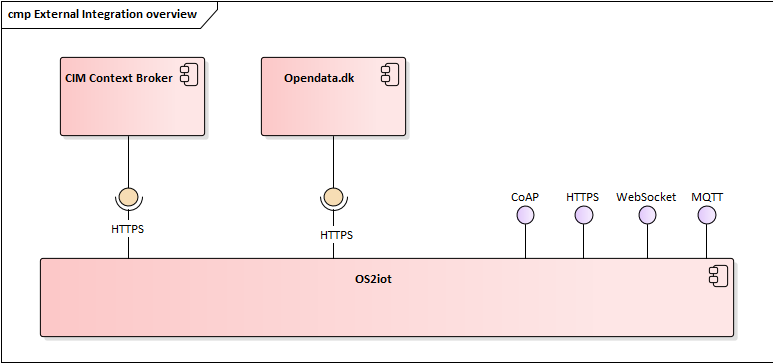
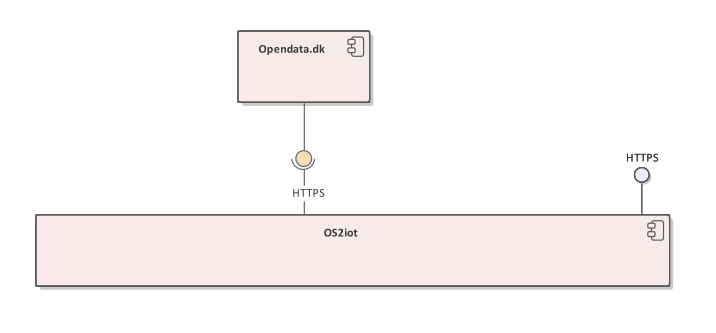
Update external interface design

diff --git a/source/external-interface-design/external-interface-design.rst b/source/external-interface-design/external-interface-design.rst
@@ -72,21 +72,11 @@ Figure 4 - Data target integrations
 
 OS2iot supports integrations to:
 
--  CIM Context Broker based on NGSI-LD
-
 -  Opendata.dk
 
 -  Any external system supporting one of the following
 
-   -  CoAP
-
    -  HTTPS
-
-   -  WebSocket
-
-   -  MQTT
-
-All use request-response except MQTT, which uses publish-subscribe.
 
 Authentication
 ^^^^^^^^^^^^^^^^^^^^^^^^^^^^^^^^^^
@@ -95,11 +85,7 @@ Authentication
 
 Figure 5 - External authentication systems
 
-OS2iot integrates to two external authentication systems:
-
--  KOMBIT Adgangsstyring
-
--  Active Directory
+OS2iot integrates to the external authentication system: KOMBIT Adgangsstyring
 
 These are described in detail in section 6 and 7, respectively.
 
@@ -287,7 +273,7 @@ Error handling
 
 ..
 
-   Errors received from chirpstack will be logged and displayed. Simple
+   Errors received from chirpstack will be logged and displayed. 
 
 Communicating with edge devices
 ~~~~~~~~~~~~~~~~~~~~~~~~~~~~~~~
@@ -589,227 +575,42 @@ exponential back-off. Or an API exposing all messages which have not
 been acknowledged by the receiver, for a short period of time (for
 instance 3 days like SigFox).
 
-NGSI-LD
-^^^^^^^^^^^^^^^^^^^^^^^^^^^^^^^^^^
-
-OS2iot can update attributes on entities in a CIM Context Broker according to the NGSI-LD specification.
-https://www.etsi.org/deliver/etsi_gs/CIM/001_099/009/01.01.01_60/gs_CIM009v010101p.pdf
-
-Prerequisites
-~~~~~~~~~~~~~
-
-OS2iot can only update existing attributes and existing entities in the Context Broker. This means that the entites must already be created in the Context Broker before OS2iot can send data to the Context Broker. The responsibility for this lies outside the scope of OS2iot.
-
-Integration pattern
-~~~~~~~~~~~~~~~~~~~~~~~~~~~~~~~~~~~~~~~
-The integration uses the request-response pattern. The following describes how and when data is sent to the CIM Context Broker from OS2iot:
-1.	OS2iot receives data from an IoT device
-2.	Once the data has been stored in OS2iot and the data has been transformed, the transformed data is sent to the Context Broker
-3.	Data is sent as a HTTP PATCH request
-
-Authorization
-~~~~~~~~~~~~~~~~~~~~~~~~~~
-
-The FIWARE reference implementations Orion-LD and Scorpio use no authentication or authorization.
-
-Data and format
-~~~~~~~~~~~~~~~~~~~~~~~~~~
-
-Data must use the JSON-LD format. FIWARE Smart Data Models define the available entities and attributes:
-https://github.com/smart-data-models
-
-Update entity attribute
-~~~~~~~~~~~~~~~~~~~~~~~~~~
-
-The NGSI-LD specification defines how attributes in the Context Broker are updated:
-https://github.com/FIWARE/context.Orion-LD/blob/develop/doc/manuals-ld/developer-documentation.md#patch-ngsi-ldv1entitiesentityidattrs
-A HTTP PATCH request is sent to "/ngsi-ld/v1/entities/{entityId}/attrs" with a JSON-LD object containing the attribute values. The data transformation in OS2iot is responsible for transforming the IoT device payload and OS2iot device metadata to valid JSON-LD.
-
 Opendata.dk
 ^^^^^^^^^^^^^^^^^^^^^^^^^^^^^^^^^^
 
-OS2iot can send data from IoT devices to opendata.dk by adding the
-received data to a opendata.dk resource after it has been received by
-OS2iot.
+Users of OS2iot can expose the data sent from their devices to opendata.dk by setting up a data-target to share with opendata.dk.
 
-Data is saved in opendata.dk in a Data Store in a Data Set created under
-an Organization.
+The IoTDevices whose data is exposed is the devices which are listed in the data-target. The data is transformed using their corresponding payload transformers.
+Each data-target which is shared creates one data-set is opendata.dk and in that dataset there is once resouce, namely an HTTP endpoint which exposes the data as an array of JSON objects.
+
+Opendata.dk autogenerates their catalogue of OS2iot data, by parsing the DCAT json file which is exposed at the :code:`/api/v1/open-data-dk-sharing/{organizationId}` endpoint. 
+The organizationId for your organization is shown in the frontend. 
+
+The data itself is exposed on the :code:`/api/v1/open-data-dk-sharing/{organizationId}/data/{shareId}` endpoint.
 
 .. _prerequisites-1:
-
-Prerequisites
-~~~~~~~~~~~~~
-
-The integration has the following prerequisites:
-
--  The necessary opendata.dk credentials has been added to the
-   organization in OS2iot. This includes the API key needed for
-   authenticating with opendata.dk.
-
--  The Organization and Data Set must be created in opendata.dk.
-
--  A payload transformation exists in OS2iot for transforming the device
-   payload to valid JSON.
-
-When creating or modifying an IoT device in OS2iot, it is possible to
-choose to also send device data to opendata.dk. When doing this, the
-user must also chose which data transformation to use and provide the
-name of the data store.
-
-Integration pattern
-~~~~~~~~~~~~~~~~~~~
-
-The following describes how and when data is sent to opendata.dk from
-OS2iot
-
-1. OS2iot receives data from an IoT device
-
-2. Once the data has been stored in OS2iot and the payload has been
-   transformed, the data (device metadata plus transformed payload) is
-   sent to opendata.dk
-
-3. Data is sent as a HTTP PUSH request to an opendata.dk API.
 
 Authorization
 ~~~~~~~~~~~~~
 
-Each HTTP request to the opendata.dk must contain a header containing
-the api key, i.e.:
-
-Authorization: [GUID]
+The endpoints listed above is not protected by a requirement of authorization, since they are intended to be publicly available.
 
 Data and format
 ~~~~~~~~~~~~~~~
 
-The data sent to opendata.dk is all properties and metadata for the
-entity "IoTDevice" along with the transformed payload. Data is sent as
-JSON.
-
-.. code-block:: javascript
-   
-   {
-      "DeviceName": "name",
-      "Description": "description",
-      [...],
-      "Metadata": { "metadata 1": "value 1", "metadata 2": "value 2"},
-      "Payload": "payload"
-   }
-
-The payload value depends on the associated data transformation, but
-must be valid JSON.
-
-|image7|
-
-Figure 6 - IoT device and data target data model
-
-Create/update data store
-~~~~~~~~~~~~~~~~~~~~~~~~
-
-Before data can be added to opendata.dk, a data store must be created
-which includes the schema of the data store. Creation and updating is
-done in the same way, but a field cannot change type once it has been
-created.
-
-URL: https://demo.ckan.org/api/action/datastore_create
-
-.. code-block:: javascript
-
-   {
-      "resource_id": "[data set id]",
-      "fields": [
-         {
-            "id": "DeviceId",
-            "type": "text"
-         },
-         {
-            "id": "DeviceName",
-            "type": "text"
-         },
-         {
-            "id": "Description",
-            "type": "text"
-         },
-         {
-            "id": "BatteryLevel",
-            "type": "int"
-         },
-         [...],
-         {
-            "id": "Metadata",
-            "type": "json"
-         },
-         {
-            "id": "Payload",
-            "type": "json"
-         }
-      ],
-      "primary_key": ["DeviceId"],
-      "force": "True"
-   }
-
-
-TODO: Decide when this is done and if it happens automatically.
-
-Supported field types:
-
-https://docs.ckan.org/en/2.8/maintaining/datastore.html#field-types
-
-Insert data into data store
-~~~~~~~~~~~~~~~~~~~~~~~~~~~
-
-Data is inserted into the data store by sending JSON using a HTTP PUSH
-request to opendata.dk.
-
-URL: https://demo.ckan.org/api/action/datastore_upsert
-
-.. code-block:: javascript
-
-   {
-      "resource_id": "data store id",
-      "method": "upsert",
-      "records": [
-         {
-            "DeviceId": "device id",
-            "DeviceName": "device name",
-            [...],
-            "payload": { "temp":30, "humidity": "high" }
-         }
-      ],
-      "force": "True"
-   }
-
-
-
+The data exposed is entirely defined by the payload transformer, and thus the user of OS2iot, rather than the system imposing a data format.
 
 KOMBIT Adgangstyring
 -------------------------------------------------------------------
-TODO
 
-Active Directory
--------------------------------------------------------------------
-TODO
+See `the seperate page for KOMBIT adgangsstyring <../kombit-adgangsstyring/kombit-adgangsstyring.html>`_
+
 
 .. |image0| image:: media/image4.emf
-   :width: 1.51111in
-   :height: 0.23194in
 .. |image1| image:: media/image5.png
-   :width: 6.56806in
-   :height: 4.60556in
 .. |image2| image:: media/image6.png
-   :width: 5.048in
-   :height: 3.13939in
 .. |image3| image:: media/image7.png
-   :width: 6.56806in
-   :height: 4.27569in
 .. |image4| image:: media/image8.png
-   :width: 6.56806in
-   :height: 3.09306in
 .. |image5| image:: media/image9.png
-   :width: 6.56806in
-   :height: 2.27153in
 .. |image6| image:: media/image10.png
-   :width: 6.56806in
-   :height: 1.33819in
 .. |image7| image:: media/image12.png
-   :width: 4.58209in
-   :height: 3.94017in
